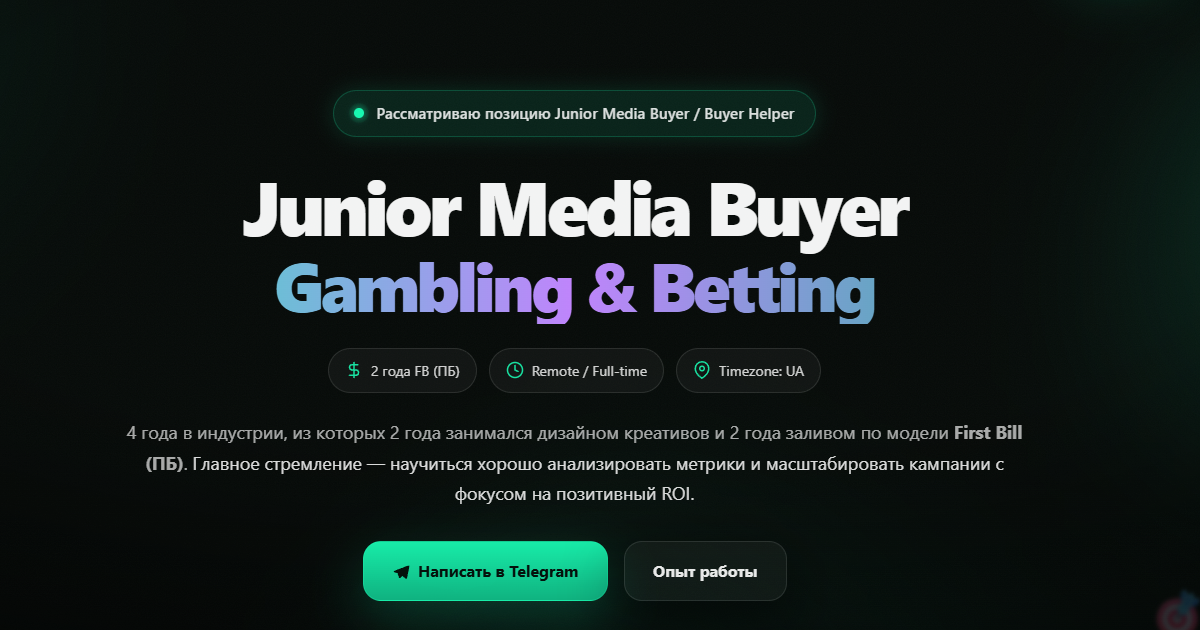
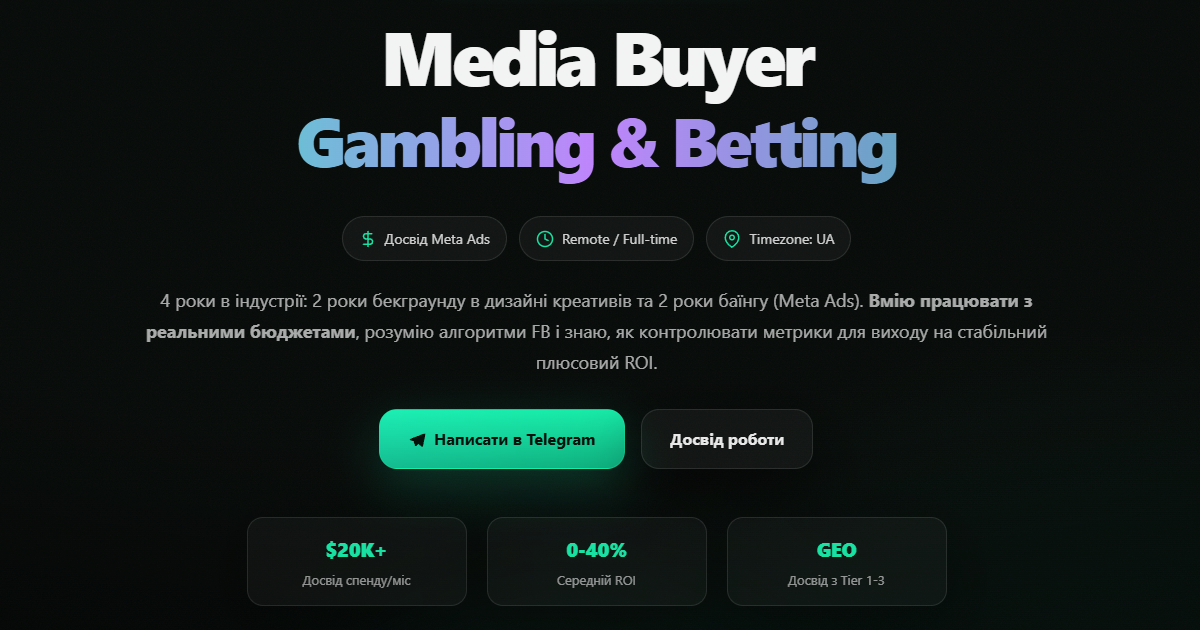
Fix + Upd Prw

diff --git a/fix-header.js b/fix-header.js
@@ -1,0 +1,36 @@
+import fs from 'fs';
+import path from 'path';
+
+// 1. Исправляем шапку (делаем её fixed w-full)
+const headerPath = path.resolve('src/components/Header.tsx');
+if (fs.existsSync(headerPath)) {
+  let content = fs.readFileSync(headerPath, 'utf8');
+  
+  content = content.replace(
+    /className=\{cn\("sticky top-0 z-30 transition",/g,
+    'className={cn("fixed top-0 left-0 w-full z-50 transition-all duration-300",'
+  );
+  
+  fs.writeFileSync(headerPath, content, 'utf8');
+  console.log('✅ Шапка (Header.tsx) теперь надежно зафиксирована!');
+} else {
+  console.log('⚠ Файл Header.tsx не найден.');
+}
+
+// 2. Исправляем главный контейнер (меняем hidden на современный clip)
+const appPath = path.resolve('src/App.tsx');
+if (fs.existsSync(appPath)) {
+  let content = fs.readFileSync(appPath, 'utf8');
+  
+  content = content.replace(
+    /className="relative min-h-screen overflow-hidden/g,
+    'className="relative min-h-screen overflow-clip'
+  );
+  
+  fs.writeFileSync(appPath, content, 'utf8');
+  console.log('✅ Исправлен баг скролла в App.tsx!');
+} else {
+  console.log('⚠ Файл App.tsx не найден.');
+}
+
+console.log('\\n🎉 Готово! Проверяй скролл.');

diff --git a/fix-hero.js b/fix-hero.js
@@ -1,4 +1,9 @@
-import { Reveal } from "../components/Reveal";
+import fs from 'fs';
+import path from 'path';
+
+const heroPath = path.resolve('src/sections/Hero.tsx');
+
+const content = `import { Reveal } from "../components/Reveal";
 import { Button } from "../components/ui/Button";
 import { motion } from "framer-motion";
 import { useLang } from "../context/LanguageContext";
@@ -140,4 +145,11 @@ export function Hero() {
       </div>
     </section>
   );
+}`;
+
+if (fs.existsSync(heroPath)) {
+  fs.writeFileSync(heroPath, content.trim(), 'utf8');
+  console.log('✅ Файл src/sections/Hero.tsx успешно обновлен!');
+} else {
+  console.log('⚠ Файл src/sections/Hero.tsx не найден.');
 }

diff --git a/src/components/Header.tsx b/src/components/Header.tsx
@@ -68,7 +68,7 @@ export function Header() {
   );
 
   return (
-    <header className={cn("sticky top-0 z-30 transition", scrolled ? "bg-black/55 backdrop-blur-xl" : "bg-transparent")}>
+    <header className={cn("fixed top-0 left-0 w-full z-50 transition-all duration-300", scrolled ? "bg-black/55 backdrop-blur-xl" : "bg-transparent")}>
       <div className="mx-auto flex h-[76px] w-[min(1200px,calc(100%-48px))] items-center justify-between gap-4">
         <a className="flex items-center gap-2.5" href="#top" aria-label="Media Buyer">
           <span className="flex h-10 w-10 items-center justify-center overflow-hidden rounded-xl">

diff --git a/src/App.tsx b/src/App.tsx
@@ -15,7 +15,7 @@ export default function App() {
   const { lang } = useLang();
 
   return (
-    <div className="relative min-h-screen overflow-hidden text-white selection:bg-accent/30 selection:text-accent">
+    <div className="relative min-h-screen overflow-clip text-white selection:bg-accent/30 selection:text-accent">
       <GlowBackground />
       <Header />
       <AnimatePresence mode="wait">
